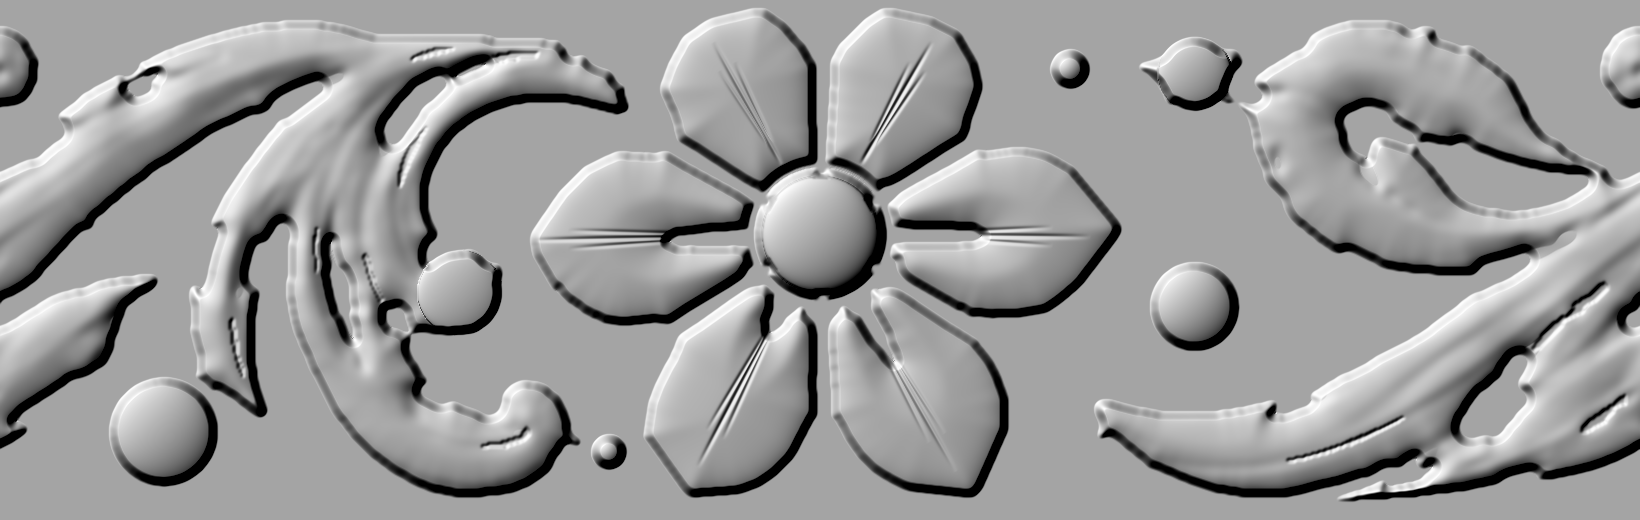
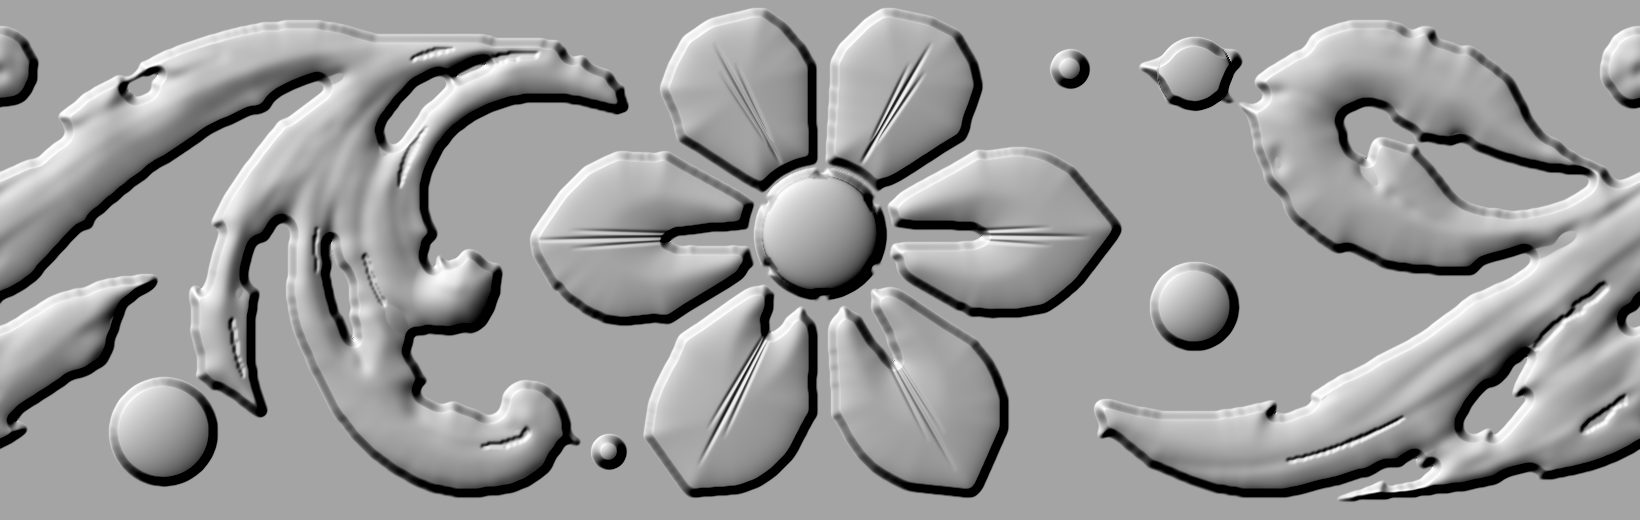
v2 step 19: user-circled areas. (A) scroll curl head: the stamped hemisphere 'ball' (228,145) removed (NOCURL), head carried by the scroll plateau + smooth swell CB .25 (no circle edge); (B) ref-shape windows REFW (1495,395,75) bottom-right leaf recess, (438,258,16) head groove pocket, (396,319,34) 
Claude-Session: s82

Changed region(s): [[0.2177, 0.4615, 0.311, 0.6769], [0.8707, 0.7692, 0.9329, 0.8615], [0.9018, 0.6769, 0.9329, 0.7692]]

diff --git a/tools/v2/make_map_v2.py b/tools/v2/make_map_v2.py
@@ -102,11 +102,20 @@ if E('BAY', 1):
     CUTS = [(396, 319, 26), (575, 312, 30)]
     for _cx, _cy, _wr in CUTS:
         B = B & ~(_Dk & (np.hypot(_bx - _cx, _by - _cy) <= _wr))
+    # s86 ref-shape windows (x, y, radius): inside, the map silhouette becomes the ref's own (ref gold union, minus ref-dark recess), level-set smoothed RSG. REFW=0 disables.
+    REFW = [(1495, 395, 75), (438, 258, 16), (396, 319, 34)]   # bottom-right pointed leaf recess; curl-head groove pocket; gap beside the curl
+    if E('REFW', 1):
+        _ev = _V[:, C0:C0 + P + SEAM].copy(); _tv = _ev[:, :P].copy(); _tv[:, :SEAM] = (1 - _al) * _ev[:, P:P + SEAM] + _al * _ev[:, :SEAM]
+        _Dk2 = ndi.binary_opening(cv2.resize(_tv, (TW, TH), interpolation=cv2.INTER_CUBIC) < E('RDT', 50), np.ones((E('RDO', 3).__int__(),) * 2)); _l3, _n3 = ndi.label(_Dk2); _a3 = np.bincount(_l3.ravel(), minlength=_n3 + 1); _Dk2 = np.isin(_l3, [i for i in range(1, _n3 + 1) if _a3[i] >= 60])
+        _Bn = (ndi.binary_dilation(B | _Rg, iterations=E('RGR', 8).__int__()) & ~_Dk2) if E('RFILL', 1) else ((B | _Rg) & ~_Dk2); _Bs = sg(sdf_of(_Bn), E('RSG', 1.5)) > 0
+        for _cx, _cy, _wr in REFW:
+            B = np.where(np.hypot(_bx - _cx, _by - _cy) <= _wr, _Bs, B)
 # beads (ring-template matched on the ref, tile px x,y,r, moat?, top): carve moat ring, stamp disc
 sc = TW / P; Yg, Xg = np.mgrid[:TH, :TW]
 BEADS = [(407, 116, 29, 1, FBEAD), (593, 151, 22, 1, BEAD), (80, 214, 27, 1, BEAD), (530, 33, 10, 1, BEAD), (302, 224, 9, 1, BEAD), (593, 36, 18, 0, BEAD), (228, 145, 21, 0, .78)]
 if E('BFIT', 1):   # s85 circles refitted (robust LSQ) to the ref gold outline, edge px with ground outside; only beads with >=33/36 angular bins covered (the (302,224) and curl-ball (228,145) fits were contaminated, kept)
     BEADS[1] = (592.7, 151.9, 22.29, 1, BEAD); BEADS[2] = (81.0, 214.1, 27.2, 1, BEAD); BEADS[3] = (530.9, 34.0, 9.93, 1, BEAD); BEADS[5] = (592.8, 36.4, 18.31, 0, BEAD)
+if E('NOCURL', 1): BEADS = [_b for _b in BEADS if _b[0] != 228]   # s86: the curl-head 'ball' (228,145) is the scroll's own rounded end in the ref (no sphere, no circle edge): let the scroll plateau carry it
 dist_b = np.full(B.shape, 1e9, np.float32)
 for bx, by, br, moat, top in BEADS:
     d = np.hypot(Xg - bx * sc, Yg - by * sc); R = br * sc
@@ -165,6 +174,8 @@ if _LUM > 0:   # s76 faint shape-from-shading: ref luminance (blurred) relative 
     _mu = sg(_Vl * _w, 30) / np.maximum(sg(_w, 30), 1e-3)
     plate = plate + _LUM * np.clip((_Vl - _mu) / 60, -1, 1) * np.clip((_r - 300) / 60, 0, 1) * sg(_w, 2)
 plate = plate - VG
+if E('NOCURL', 1) and E('CB', .25) > 0:   # s86: gentle rounded swell on the scroll's curl head (ref head is a lit round end), smooth falloff so no circle edge
+    _dc = np.hypot(Xg - 228 * sc, Yg - 145 * sc) / (E('CBR', 1.15) * 21 * sc); plate = plate + E('CB', .25) * (1 - np.clip(_dc, 0, 1) ** 2) ** 2
 level = np.where(big, plate, level)
 _sb = sg(sdf, E('SBS', 2.0)) if E('SBS', 2.0) > 0 else sdf   # s79 rim faceting: bevel ramp from a smoother SDF (binary-mask staircase made stripes on the rims)
 bev = np.clip(_sb / W, 0, 1); bev = bev * bev * (3 - 2 * bev)
